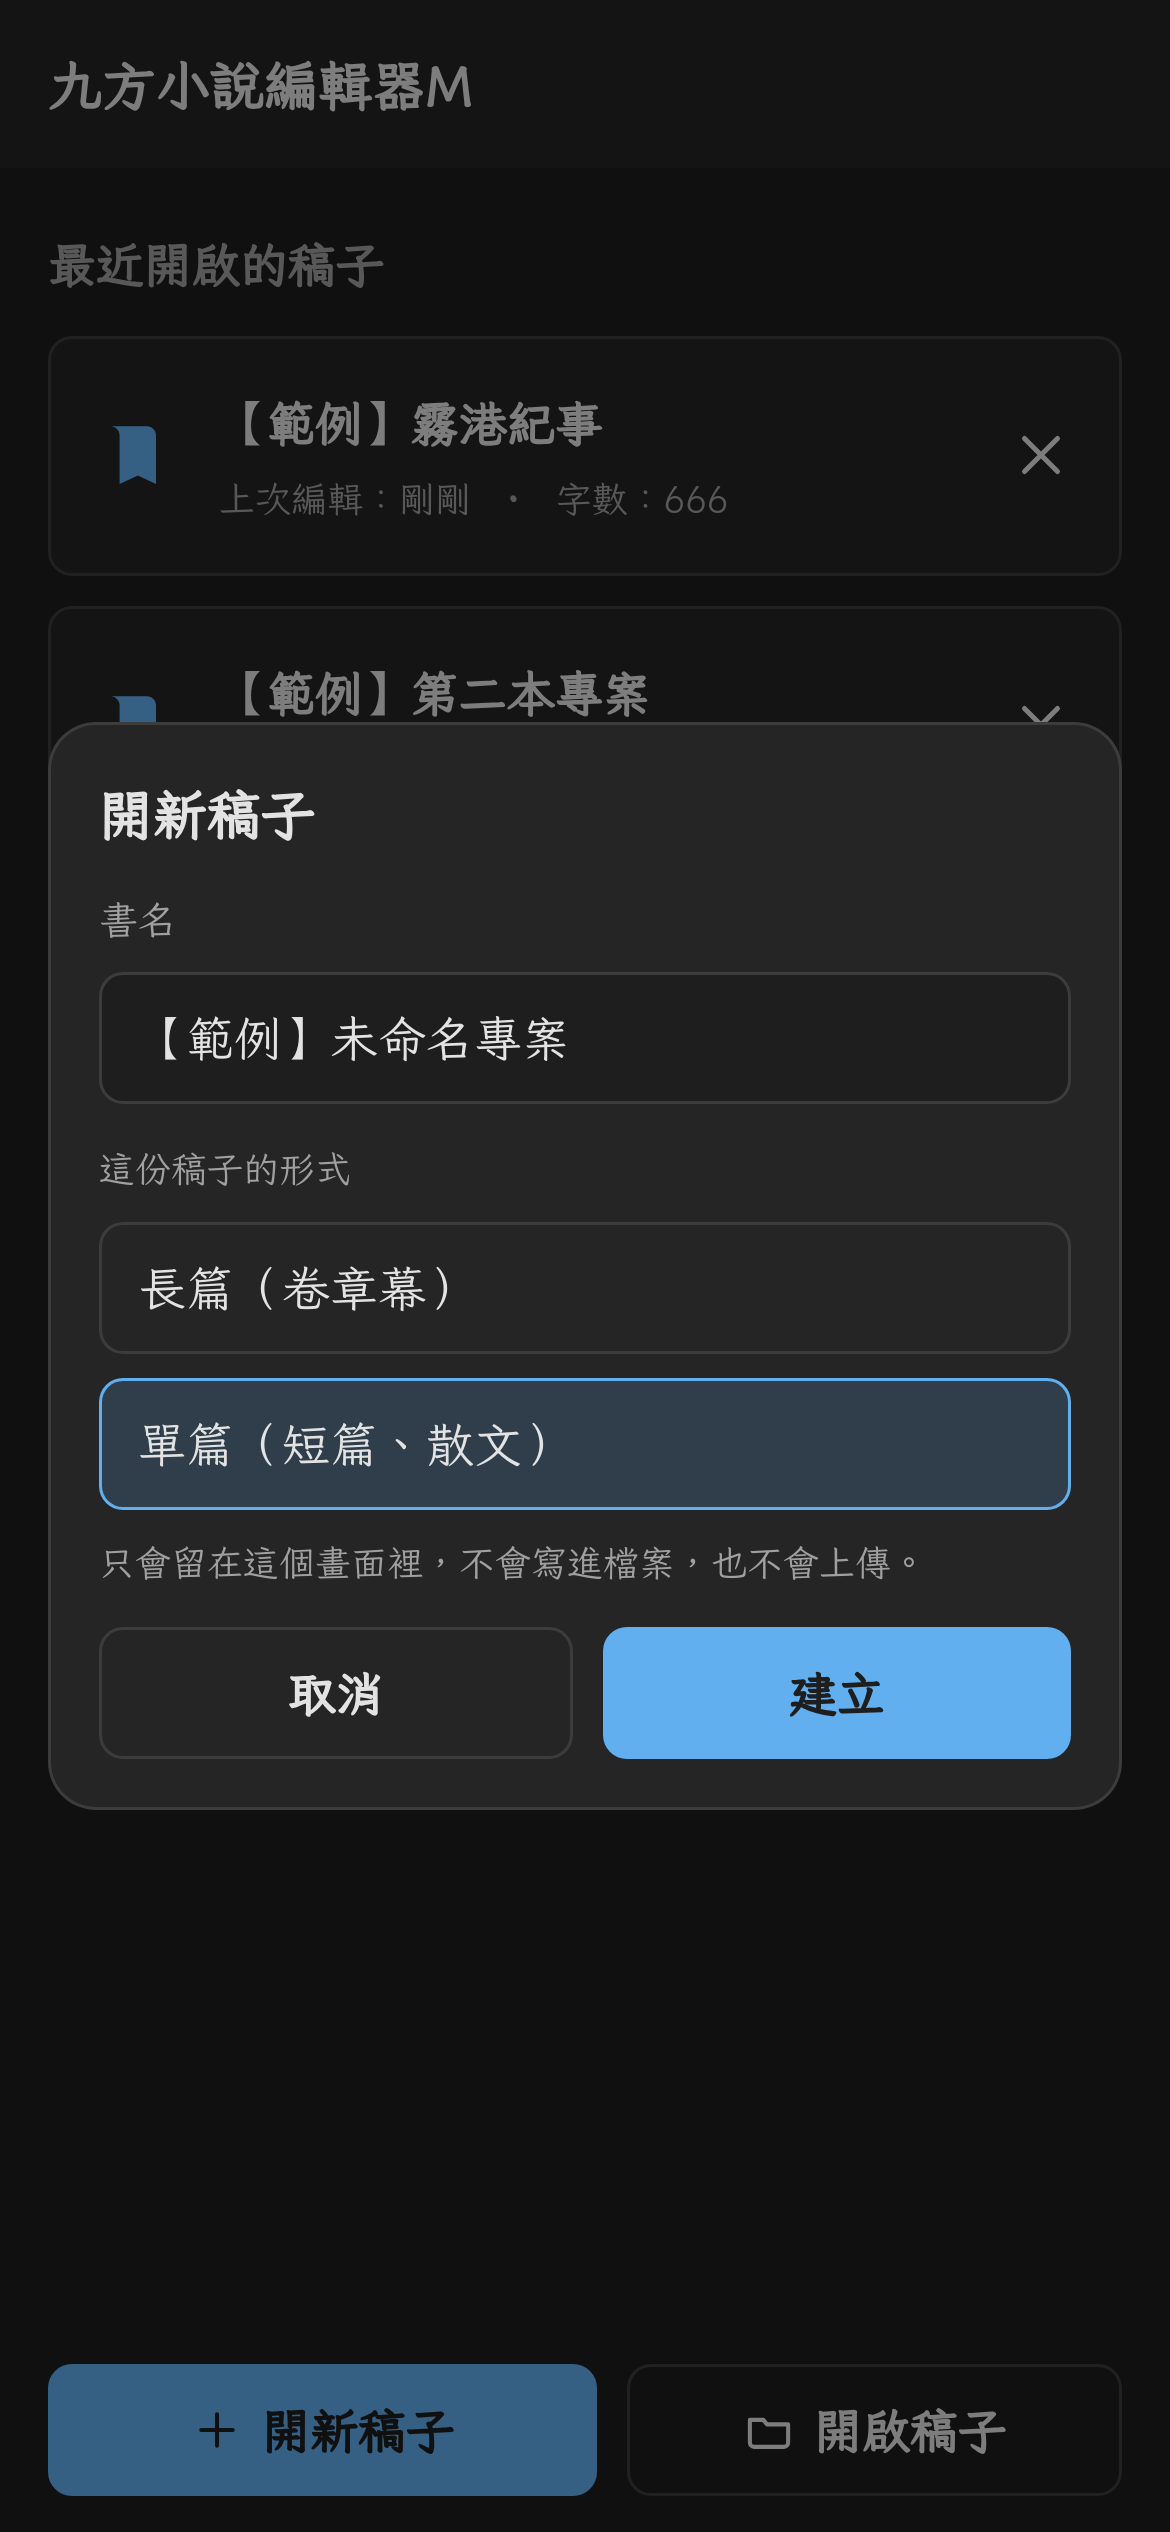
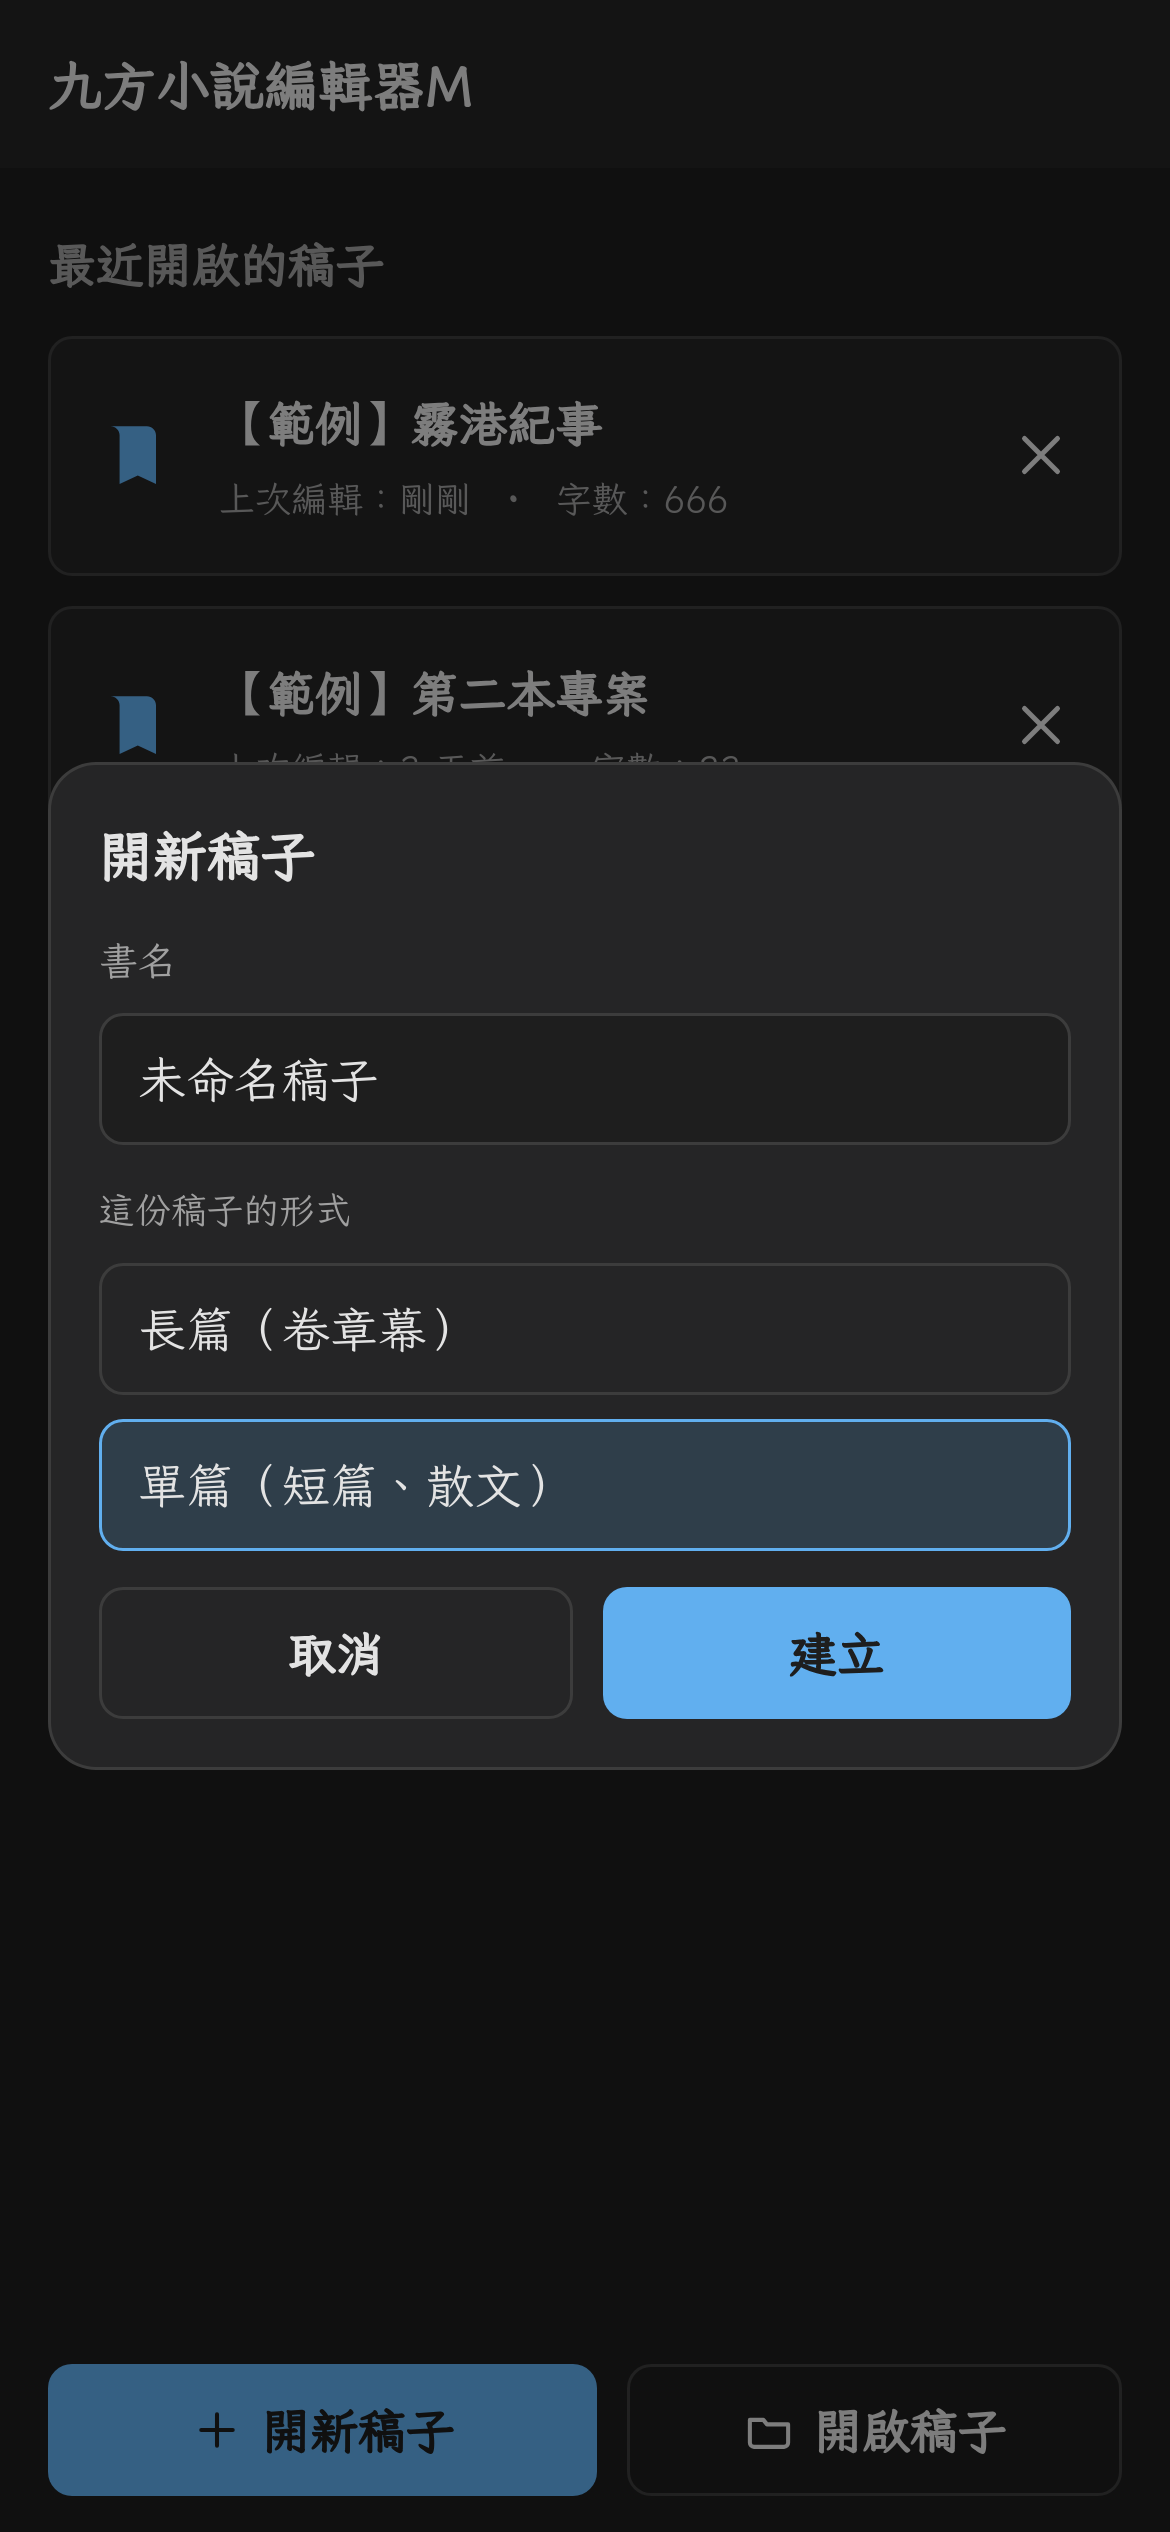
第2階段定案用字：目錄、刪除、開新稿與樣品截圖

Changed region(s): [[0.0615, 0.2808, 0.9231, 0.7176]]

diff --git a/src/copy/userFacing.test.ts b/src/copy/userFacing.test.ts
@@ -1,12 +1,25 @@
 import { describe, expect, it } from 'vitest';
 import {
+  ARCHIVE_DELETE_UNSAVED,
+  ARCHIVE_KEEP_FAIL,
+  ARCHIVE_RESTORE_HELD,
+  EDITOR_PLACEHOLDER,
+  NEW_BOOK_DEFAULT_TITLE,
   OPEN_DB_FAIL,
   SAVE_FATAL_FAIL,
   SAVE_PARTIAL_FAIL,
   SAVE_PERMISSION_DENIED,
+  TOAST_NEW_BOOK,
+  TREE_FIND_DELETED,
+  TREE_FIND_VERSION,
   TREE_KIND_CHAPTER,
   TREE_KIND_SCENE,
   TREE_KIND_VOLUME,
+  TREE_NAME_NEW_CHAPTER,
+  TREE_PROGRESS,
+  TREE_SAVE_NAME,
+  TREE_START_WRITING,
+  deleteRecoverableHint,
   treeMoreSummary,
 } from './userFacing';
 
@@ -19,20 +32,26 @@ describe('九方審過的文案', () => {
   });
 });
 
-describe('章節目錄草案文案', () => {
+describe('章節目錄文案', () => {
   it('刪除確認與復原用臺灣用詞', async () => {
     const copy = await import('./userFacing');
     expect(copy.treeDeleteQuestion('第三章　地下道')).toBe('刪除「第三章　地下道」？');
     expect(copy.treeDeleteImpact(0, 2, '3,280')).toBe('裡面有 2 幕、共 3,280 字，會一起刪除。');
     expect(copy.TREE_KEEP).toBe('留著');
     expect(copy.TREE_ORGANIZE).toBe('整理目錄');
+    expect(TREE_SAVE_NAME).toBe('確定');
+    expect(TREE_NAME_NEW_CHAPTER).toBe('幫新章取名');
+    expect(TREE_START_WRITING).toBe('開始寫');
+    expect(TREE_PROGRESS).toBe('進度標記');
+    expect(copy.TREE_MOVE_ROOT).toBe('不放在任何卷');
+    expect(copy.TREE_DELETE_CHAPTER).toBe('刪除');
   });
 
-  it('舊版、單篇與上下章的句子先照草案', async () => {
+  it('舊版、單篇與上下章的句子', async () => {
     const copy = await import('./userFacing');
-    expect(copy.ARCHIVE_KEEP_FAIL).toBe('這次沒留下舊版，正文沒受影響。');
-    expect(copy.ARCHIVE_RESTORE_HELD).toBe('現在的內容沒留成舊版，先不換。');
-    expect(copy.ARCHIVE_DELETE_UNSAVED).toBe('這次刪掉的內容找不回來，10 秒內可按「復原」。');
+    expect(ARCHIVE_KEEP_FAIL).toBe('這次沒留下舊版，正文沒受影響');
+    expect(ARCHIVE_RESTORE_HELD).toBe('現在的內容沒留成舊版，先不換');
+    expect(ARCHIVE_DELETE_UNSAVED).toBe('這次刪掉的內容找不回來，10 秒內可按「復原」');
     expect(copy.archiveWriteFailureMessage('version')).toBe(copy.ARCHIVE_KEEP_FAIL);
     expect(copy.archiveWriteFailureMessage('restore')).toBe(copy.ARCHIVE_RESTORE_HELD);
     expect(copy.archiveWriteFailureMessage('delete')).toBe(copy.ARCHIVE_DELETE_UNSAVED);
@@ -40,13 +59,21 @@ describe('章節目錄草案文案', () => {
     expect(copy.contentAfterVersionRestore(true, '現在的字', '舊版的字')).toBe('舊版的字');
     expect(copy.deleteConfirmShowsRecoverable(true)).toBe(true);
     expect(copy.deleteConfirmShowsRecoverable(false)).toBe(false);
-    expect(copy.TREE_FIND_VERSION).toBe('找回之前的版本');
-    expect(copy.TREE_FIND_DELETED).toBe('找回刪掉的章');
-    expect(copy.TREE_DELETE_RECOVERABLE).toBe('之後仍可從目錄最下方的「找回刪掉的章」放回來。');
+    expect(TREE_FIND_VERSION).toBe('找回舊版');
+    expect(TREE_FIND_DELETED).toBe('最近刪除');
+    expect(deleteRecoverableHint(false)).toBe(
+      '最近刪除的 10 項會留在這支手機，可從目錄最下方的「最近刪除」放回來',
+    );
+    expect(deleteRecoverableHint(true)).toBe(
+      '最近刪除的 10 項會留在這台電腦，可從目錄最下方的「最近刪除」放回來',
+    );
     expect(copy.TREE_PREV_CHAPTER).toBe('上一章');
     expect(copy.TREE_NEXT_CHAPTER).toBe('下一章');
     expect(copy.NEW_BOOK_NOVEL).toBe('長篇（卷章幕）');
     expect(copy.NEW_BOOK_SINGLE).toBe('單篇（短篇、散文）');
+    expect(NEW_BOOK_DEFAULT_TITLE).toBe('未命名稿子');
+    expect(TOAST_NEW_BOOK).toBe('已開新稿子');
+    expect(EDITOR_PLACEHOLDER).toBe('從這裡開始寫');
     expect(copy.TREE_RESTORE_VERSION).toBe('用這一版');
     expect(copy.TREE_PUT_BACK).toBe('放回原位置');
     expect(copy.TREE_PUT_END).toBe('放到最後面');

diff --git a/src/screens/WriteScreen.tsx b/src/screens/WriteScreen.tsx
@@ -48,11 +48,15 @@ import {
   TREE_DELETE_CHAPTER,
   TREE_DELETE_SCENE,
   TREE_DELETE_VOLUME,
-  TREE_DESKTOP_HINT,
   TREE_DONE,
   TREE_DRAG_HINT,
-  TREE_DELETE_RECOVERABLE,
+  TREE_NAME_NEW_CHAPTER,
+  TREE_START_WRITING,
   deleteConfirmShowsRecoverable,
+  deleteRecoverableHint,
+  desktopMoveDownShortcut,
+  desktopMoveUpShortcut,
+  treeDesktopHint,
   contentAfterVersionRestore,
   TREE_EMPTY_NAME,
   TREE_FIND_DELETED,
@@ -628,7 +632,7 @@ export function WriteScreen() {
             </button>
           </div>
         ) : null}
-        {desktop ? <p className="hint tree-desktop-hint">{TREE_DESKTOP_HINT}</p> : null}
+        {desktop ? <p className="hint tree-desktop-hint">{treeDesktopHint()}</p> : null}
       </section>
       <section className="editor-pane">
         {chapter ? (
@@ -705,11 +709,11 @@ export function WriteScreen() {
             <>
               <button type="button" className="menu-item" disabled={!canMoveBy(book.nodes, menuNode.id, -1)} onClick={() => { shift(menuNode.id, -1); setMenu(null); }}>
                 {TREE_MOVE_UP}
-                {desktop ? <small>Alt+↑</small> : null}
+                {desktop ? <small>{desktopMoveUpShortcut()}</small> : null}
               </button>
               <button type="button" className="menu-item" disabled={!canMoveBy(book.nodes, menuNode.id, 1)} onClick={() => { shift(menuNode.id, 1); setMenu(null); }}>
                 {TREE_MOVE_DOWN}
-                {desktop ? <small>Alt+↓</small> : null}
+                {desktop ? <small>{desktopMoveDownShortcut()}</small> : null}
               </button>
               {menuNode.type === 'file' ? (
                 <button type="button" className="menu-item" onClick={() => setMenu({ id: menuNode.id, kind: 'volume' })}>
@@ -796,7 +800,7 @@ export function WriteScreen() {
               finishRename(renameNodeNow.id, value, renameIntent);
             }}
           >
-            <h2>{TREE_RENAME}</h2>
+            <h2>{renameIntent === 'write' ? TREE_NAME_NEW_CHAPTER : TREE_RENAME}</h2>
             <input
               name="title"
               data-testid="rename-title"
@@ -810,7 +814,7 @@ export function WriteScreen() {
                 {TREE_CANCEL}
               </button>
               <button type="submit" className="button primary">
-                {TREE_SAVE_NAME}
+                {renameIntent === 'write' ? TREE_START_WRITING : TREE_SAVE_NAME}
               </button>
             </div>
           </form>
@@ -824,7 +828,7 @@ export function WriteScreen() {
             <p>{treeDeleteImpact(impact.chapters, impact.scenes, formatInteger(impact.words))}</p>
             <p className="hint">{TREE_UNDO_HINT}</p>
             {deleteConfirmShowsRecoverable(archivePersistOk) ? (
-              <p className="hint">{TREE_DELETE_RECOVERABLE}</p>
+              <p className="hint">{deleteRecoverableHint(desktop)}</p>
             ) : null}
             <div className="dialog-actions delete-actions">
               <button

diff --git a/src/screens/HomeScreen.tsx b/src/screens/HomeScreen.tsx
@@ -1,7 +1,13 @@
 import { useRef, useState } from 'react';
 import { Link, useNavigate } from 'react-router-dom';
 import { BookIcon, CloseIcon, FolderIcon, PlusIcon } from '../components/Icons';
-import { NEW_BOOK_NOVEL, NEW_BOOK_SHAPE, NEW_BOOK_SINGLE, OPEN_DB_FAIL } from '../copy/userFacing';
+import {
+  NEW_BOOK_DEFAULT_TITLE,
+  NEW_BOOK_NOVEL,
+  NEW_BOOK_SHAPE,
+  NEW_BOOK_SINGLE,
+  OPEN_DB_FAIL,
+} from '../copy/userFacing';
 import { formatProjectUpdatedLabel } from '../domain/formatCalendarDate';
 import { manuscriptWritePath, newChapterId, writePath } from '../domain/openManuscript';
 import { canPickLocalFiles } from '../db/browserDisk';
@@ -13,7 +19,7 @@ export function HomeScreen() {
   const [creating, setCreating] = useState(false);
   const [busy, setBusy] = useState(false);
   const openInputRef = useRef<HTMLInputElement>(null);
-  const [title, setTitle] = useState('【範例】未命名專案');
+  const [title, setTitle] = useState(NEW_BOOK_DEFAULT_TITLE);
   const [shape, setShape] = useState<'novel' | 'single'>('novel');
   const recent = state.recentIds
     .map((id) => state.projects.find((project) => project.id === id))
@@ -144,7 +150,6 @@ export function HomeScreen() {
                 {NEW_BOOK_SINGLE}
               </button>
             </div>
-            <p className="hint">只會留在這個畫面裡，不會寫進檔案，也不會上傳。</p>
             <div className="dialog-actions">
               <button type="button" className="button secondary" onClick={() => setCreating(false)}>
                 取消

diff --git a/src/state/sampleStore.tsx b/src/state/sampleStore.tsx
@@ -381,7 +381,7 @@ function reduce(state: SampleState, action: Action): SampleState {
     case 'dismiss-recent':
       return { ...state, recentIds: state.recentIds.filter((id) => id !== action.id) };
     case 'add-project': {
-      const title = action.title.trim() || '【範例】未命名專案';
+      const title = action.title.trim() || '未命名稿子';
       const chapterId = newChapterId(action.id);
       const single = action.shape === 'single';
       const project: DemoProject = {
@@ -396,9 +396,9 @@ function reduce(state: SampleState, action: Action): SampleState {
           {
             id: chapterId,
             type: 'file',
-            title: single ? title : '第一章　起筆',
+            title: single ? title : '第一章　',
             progress: 'Draft',
-            content: single ? '' : '【範例】在這裡寫作。\n',
+            content: '',
           },
         ],
       };
@@ -406,7 +406,7 @@ function reduce(state: SampleState, action: Action): SampleState {
         ...state,
         projects: [project, ...state.projects],
         recentIds: [action.id, ...state.recentIds],
-        toast: '已新增範例專案（只留在這個畫面裡）',
+        toast: '已開新稿子',
       };
     }
     case 'toggle':

diff --git a/src/screens/EditorPane.tsx b/src/screens/EditorPane.tsx
@@ -3,7 +3,7 @@ import { useLocation, useNavigate } from 'react-router-dom';
 import { DailyProgressBar } from '../components/DailyProgressBar';
 import { BackIcon } from '../components/Icons';
 import { StatusBadge } from '../components/StatusBadge';
-import { TREE_NEXT_CHAPTER, TREE_PREV_CHAPTER } from '../copy/userFacing';
+import { EDITOR_PLACEHOLDER, TREE_NEXT_CHAPTER, TREE_PREV_CHAPTER } from '../copy/userFacing';
 import { bookArchive } from '../db/chapterArchive';
 import type { ChapterNode } from '../data/demo';
 import { canPickLocalFiles } from '../db/browserDisk';
@@ -157,7 +157,7 @@ export function EditorPane({ projectId, chapter }: { projectId: string; chapter:
         autoCorrect="off"
         autoCapitalize="off"
         autoComplete="off"
-        placeholder="【範例】在這裡寫作。"
+        placeholder={EDITOR_PLACEHOLDER}
         aria-label="正文"
         enterKeyHint="enter"
         onFocus={() => setFocused(true)}

diff --git a/src/domain/outline.ts b/src/domain/outline.ts
@@ -34,7 +34,7 @@ export function createScene(chapter: ChapterNode, id: string): ChapterNode {
     type: 'scene',
     title: `幕 ${count}　新幕`,
     progress: 'Draft',
-    content: '【範例】新加的幕，可以在這裡寫。\n',
+    content: '',
   };
 }
 

diff --git a/src/editor/focusWriting.test.ts b/src/editor/focusWriting.test.ts
@@ -6,7 +6,7 @@ describe('新章進入正文', () => {
     let focused = false;
     let range: [number, number] | null = null;
     const box = {
-      value: '【範例】在這裡寫作。',
+      value: '',
       focus() {
         focused = true;
       },
